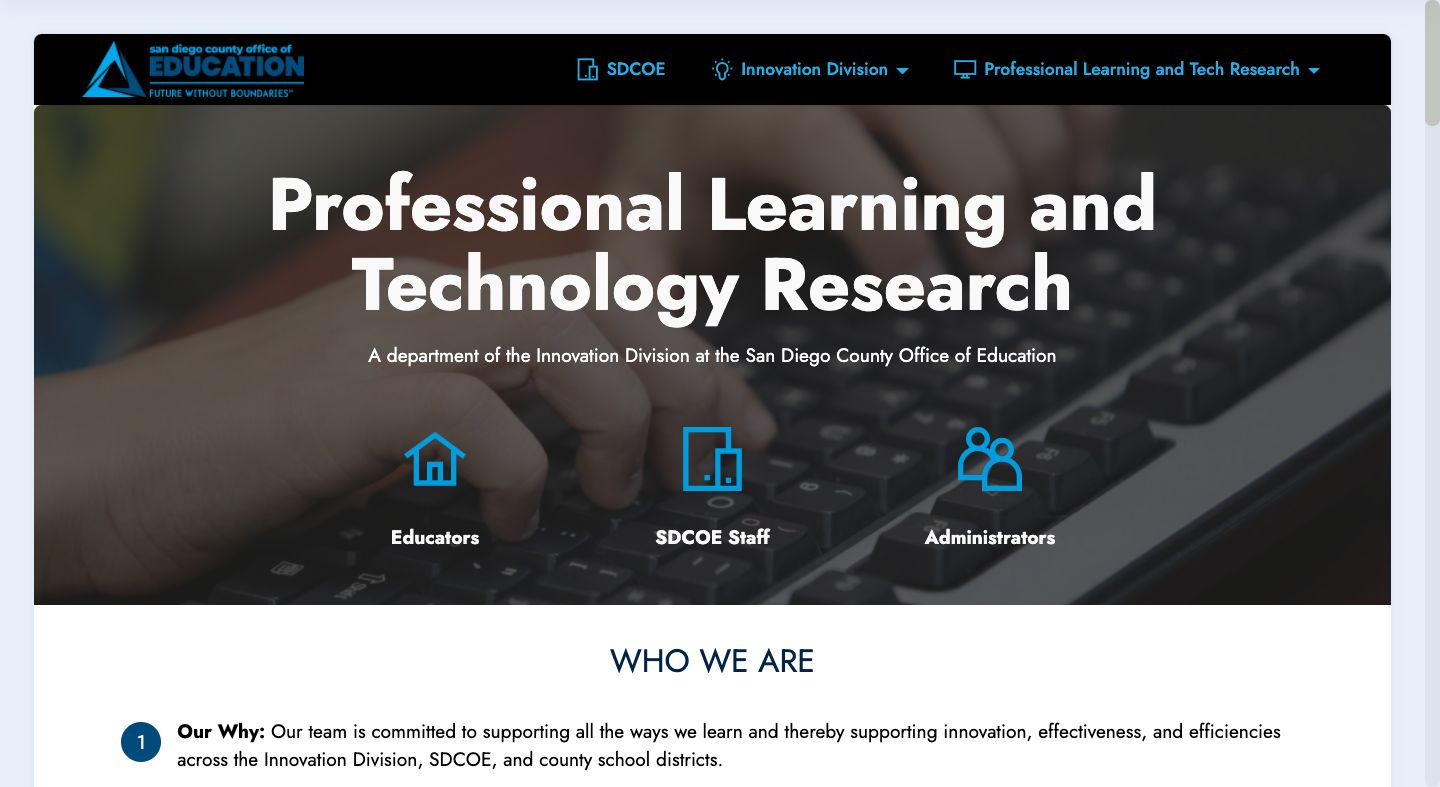
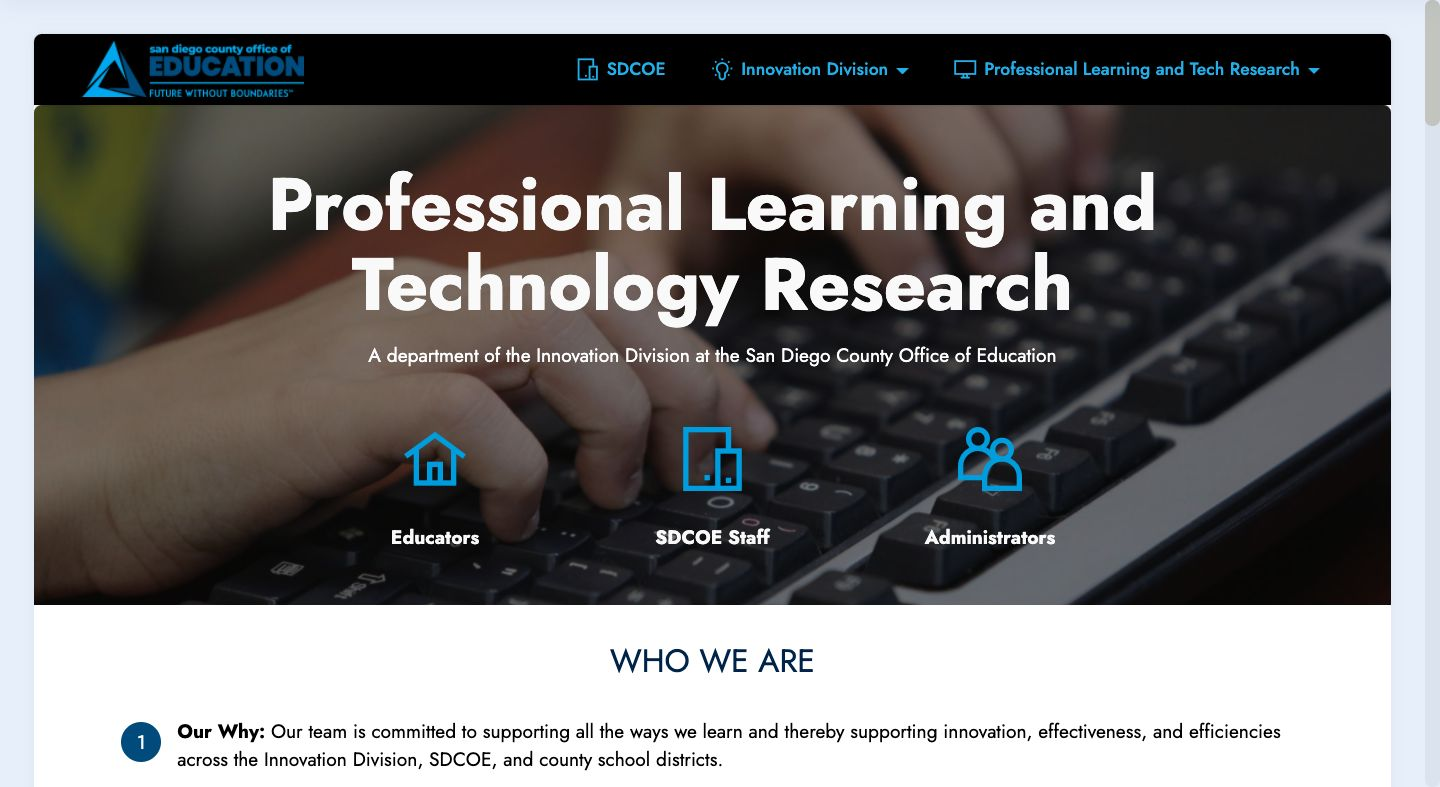
4_13 Edits

diff --git a/index.html b/index.html
@@ -51,8 +51,8 @@
             <div class="collapse navbar-collapse" id="navbarSupportedContent">
                 <ul class="navbar-nav nav-dropdown nav-right" data-app-modern-menu="true"><li class="nav-item"><a class="nav-link link text-info display-4" href="http://www.sdcoe.net" target="_blank"><span class="mobi-mbri mobi-mbri-devices mbr-iconfont mbr-iconfont-btn"></span>
                             SDCOE</a></li><li class="nav-item dropdown"><a class="nav-link link dropdown-toggle text-info display-4" href="#" target="_blank" data-toggle="dropdown-submenu" aria-expanded="false"><span class="mobi-mbri mobi-mbri-idea mbr-iconfont mbr-iconfont-btn"></span>
-                            Innovation Division</a><div class="dropdown-menu"><a class="text-info dropdown-item text-primary display-4" href="#https://www.sdcoe.net/innovation/Pages/default.aspx" target="_blank" aria-expanded="false">Innovation SDCOE</a><a class="dropdown-item text-info text-primary display-4" href="http://innovatesd.org" target="_blank">#InnovateSD</a><a class="text-info dropdown-item text-primary display-4" href="#https://cte.innovatesd.org/" target="_blank" aria-expanded="false">College and Career Readiness</a><a class="text-info dropdown-item text-primary display-4" href="#https://datascience.innovatesd.org/" target="_blank" aria-expanded="false">Data Science</a><a class="text-info dropdown-item text-primary display-4" href="#https://edtech.innovatesd.org/" target="_blank" aria-expanded="false">Educational Technology</a><a class="text-info dropdown-item text-primary display-4" href="#https://www.innovatesd.org/" target="_blank" aria-expanded="false">Organizational Effectiveness</a><a class="text-info dropdown-item text-primary display-4" href="#https://pltr.innovatesd.org/" target="_blank" aria-expanded="false">Professional Learning and Technology Research</a></div></li><li class="nav-item dropdown"><a class="nav-link link dropdown-toggle text-info display-4" href="#" target="_blank" aria-expanded="false" data-toggle="dropdown-submenu"><span class="mobi-mbri mobi-mbri-desktop mbr-iconfont mbr-iconfont-btn"></span>
-                            Professional Learning and Tech Research</a><div class="dropdown-menu"><a class="dropdown-item text-info text-primary display-4" href="https://www.sdcoe.net/innovation/ProfessionalLearning/Pages/default.aspx" target="_blank" aria-expanded="false">SDCOE PLTR</a><a class="dropdown-item text-info text-primary display-4" href="https://pltr.innovatesd.org/" target="_blank" aria-expanded="false">Professional Learning and Technology Research<br></a><a class="text-info dropdown-item text-primary display-4" href="#https://idl.innovatesd.org/" target="_blank" aria-expanded="true">PLTR Innovative Digital Learnings</a><a class="text-info dropdown-item text-primary display-4" href="#https://micro-courses.innovatesd.org/" target="_blank" aria-expanded="false">PLTR Canvas Micro-courses</a></div></li></ul>
+                            Innovation Division</a><div class="dropdown-menu"><a class="text-info dropdown-item text-primary display-4" href="#https://www.sdcoe.net/innovation/Pages/default.aspx" target="_blank" aria-expanded="false">Innovation SDCOE</a><a class="dropdown-item text-info text-primary display-4" href="http://innovatesd.org" target="_blank">#InnovateSD</a><a class="text-info dropdown-item text-primary display-4" href="#https://cte.innovatesd.org/" target="_blank" aria-expanded="false">College and Career Readiness</a><a class="text-info dropdown-item text-primary display-4" href="#https://datascience.innovatesd.org/" target="_blank" aria-expanded="false">Data Science</a><a class="text-info dropdown-item text-primary display-4" href="#https://edtech.innovatesd.org/" target="_blank" aria-expanded="false">Educational Technology</a><a class="text-info dropdown-item text-primary display-4" href="#https://www.innovatesd.org/" target="_blank" aria-expanded="false">Organizational Effectiveness</a><a class="text-info dropdown-item text-primary display-4" href="https://pltr.innovatesd.org/" target="_blank" aria-expanded="false">Professional Learning and Technology Research</a></div></li><li class="nav-item dropdown"><a class="nav-link link dropdown-toggle text-info display-4" href="#" target="_blank" aria-expanded="true" data-toggle="dropdown-submenu"><span class="mobi-mbri mobi-mbri-desktop mbr-iconfont mbr-iconfont-btn"></span>
+                            Professional Learning and Tech Research</a><div class="dropdown-menu"><a class="dropdown-item text-info text-primary display-4" href="https://pltr.innovatesd.org/" target="_blank" aria-expanded="false">Professional Learning and Technology Research<br></a><a class="text-info dropdown-item text-primary display-4" href="#https://idl.innovatesd.org/" target="_blank" aria-expanded="true">PLTR Innovative Digital Learnings</a><a class="text-info dropdown-item text-primary display-4" href="#https://micro-courses.innovatesd.org/" target="_blank" aria-expanded="false">PLTR Canvas Micro-courses</a><a class="dropdown-item text-info text-primary display-4" href="https://www.sdcoe.net/innovation/ProfessionalLearning/Pages/default.aspx" target="_blank" aria-expanded="false">SDCOE PLTR</a></div></li></ul>
                 
                 
             </div>
@@ -64,7 +64,7 @@
 
     
 
-    <div class="mbr-overlay" style="opacity: 0.7; background-color: rgb(35, 35, 35);">
+    <div class="mbr-overlay" style="opacity: 0.5; background-color: rgb(0, 0, 0);">
     </div>
 
     <div class="container">
@@ -298,8 +298,8 @@
         </div>
         <div class="row mbr-gallery mt-4">
             <div class="col-12 col-md-6 col-lg-3 item gallery-image">
-                <div class="item-wrapper" data-toggle="modal" data-target="#stQ0ZR74Ug-modal">
-                    <a href="https://bit.ly/SDCOEdigital" target="_blank"><img class="w-100" src="assets/images/sdcoe-innovative-digital-learning-584x290.png" alt="San Diego COE Innovative Digital Learning" data-slide-to="0" data-target="#lb-stQ0ZR74Ug"></a>
+                <div class="item-wrapper" data-toggle="modal" data-target="#suvjTnWLh1-modal">
+                    <a href="https://bit.ly/SDCOEdigital" target="_blank"><img class="w-100" src="assets/images/sdcoe-innovative-digital-learning-584x290.png" alt="San Diego COE Innovative Digital Learning" data-slide-to="0" data-target="#lb-suvjTnWLh1"></a>
                     <div class="icon-wrapper">
                         <span class="mobi-mbri mobi-mbri-search mbr-iconfont mbr-iconfont-btn"></span>
                     </div>
@@ -307,8 +307,8 @@
                 <h6 class="mbr-item-subtitle mbr-fonts-style align-center mb-2 mt-2 display-7"><a href="https://bit.ly/SDCOEdigital" class="text-primary" target="_blank">Innovative Digital Learning Website</a>&nbsp;</h6>
             </div>
             <div class="col-12 col-md-6 col-lg-3 item gallery-image">
-                <div class="item-wrapper" data-toggle="modal" data-target="#stQ0ZR74Ug-modal">
-                    <a href="https://bit.ly/SDDistance" target="_blank"><img class="w-100" src="assets/images/equity-hands-584x290.png" alt="Multicolor hands in the air" data-slide-to="1" data-target="#lb-stQ0ZR74Ug"></a>
+                <div class="item-wrapper" data-toggle="modal" data-target="#suvjTnWLh1-modal">
+                    <a href="https://bit.ly/SDDistance" target="_blank"><img class="w-100" src="assets/images/equity-hands-584x290.png" alt="Multicolor hands in the air" data-slide-to="1" data-target="#lb-suvjTnWLh1"></a>
                     <div class="icon-wrapper">
                         <span class="mobi-mbri mobi-mbri-search mbr-iconfont mbr-iconfont-btn"></span>
                     </div>
@@ -316,8 +316,8 @@
                 <h6 class="mbr-item-subtitle mbr-fonts-style align-center mb-2 mt-2 display-7"><a href="https://bit.ly/SDDistance" class="text-primary" target="_blank">Ensuring Equity in Distance Learning Website</a><br></h6>
             </div>
             <div class="col-12 col-md-6 col-lg-3 item gallery-image">
-                <div class="item-wrapper" data-toggle="modal" data-target="#stQ0ZR74Ug-modal">
-                    <a href="https://bit.ly/SDCOECatalog" target="_blank"><img class="w-100" src="assets/images/catalog-logo-584x290.png" alt="SDCOE Canvas Catalog" data-slide-to="2" data-target="#lb-stQ0ZR74Ug"></a>
+                <div class="item-wrapper" data-toggle="modal" data-target="#suvjTnWLh1-modal">
+                    <a href="https://bit.ly/SDCOECatalog" target="_blank"><img class="w-100" src="assets/images/catalog-logo-584x290.png" alt="SDCOE Canvas Catalog" data-slide-to="2" data-target="#lb-suvjTnWLh1"></a>
                     <div class="icon-wrapper">
                         <span class="mobi-mbri mobi-mbri-search mbr-iconfont mbr-iconfont-btn"></span>
                     </div>
@@ -325,8 +325,8 @@
                 <h6 class="mbr-item-subtitle mbr-fonts-style align-center mb-2 mt-2 display-7"><a href="https://bit.ly/SDCOECatalog" class="text-primary" target="_blank">San Diego COE Canvas Catalog</a></h6>
             </div>
             <div class="col-12 col-md-6 col-lg-3 item gallery-image">
-                <div class="item-wrapper" data-toggle="modal" data-target="#stQ0ZR74Ug-modal">
-                    <a href="https://bit.ly/SDCOELearning"><img class="w-100" src="assets/images/pltr-logo-584x290.png" alt="PLTR logo" data-slide-to="3" data-target="#lb-stQ0ZR74Ug"></a>
+                <div class="item-wrapper" data-toggle="modal" data-target="#suvjTnWLh1-modal">
+                    <a href="https://bit.ly/SDCOELearning"><img class="w-100" src="assets/images/pltr-logo-584x290.png" alt="PLTR logo" data-slide-to="3" data-target="#lb-suvjTnWLh1"></a>
                     <div class="icon-wrapper">
                         <span class="mobi-mbri mobi-mbri-search mbr-iconfont mbr-iconfont-btn"></span>
                     </div>
@@ -335,11 +335,11 @@
             </div>
         </div>
 
-        <div class="modal mbr-slider" tabindex="-1" role="dialog" aria-hidden="true" id="stQ0ZR74Ug-modal">
+        <div class="modal mbr-slider" tabindex="-1" role="dialog" aria-hidden="true" id="suvjTnWLh1-modal">
             <div class="modal-dialog" role="document">
                 <div class="modal-content">
                     <div class="modal-body">
-                        <div class="carousel slide" id="lb-stQ0ZR74Ug" data-interval="5000">
+                        <div class="carousel slide" id="lb-suvjTnWLh1" data-interval="5000">
                             <div class="carousel-inner">
                                 <div class="carousel-item active">
                                     <img class="d-block w-100" src="assets/images/sdcoe-innovative-digital-learning-584x290.png" alt="">
@@ -355,18 +355,18 @@
                                 </div>
                             </div>
                             <ol class="carousel-indicators">
-                                <li data-slide-to="0" class="active" data-target="#lb-stQ0ZR74Ug"></li>
-                                <li data-slide-to="1" data-target="#lb-stQ0ZR74Ug"></li>
-                                <li data-slide-to="2" data-target="#lb-stQ0ZR74Ug"></li>
-                                <li data-slide-to="3" data-target="#lb-stQ0ZR74Ug"></li>
+                                <li data-slide-to="0" class="active" data-target="#lb-suvjTnWLh1"></li>
+                                <li data-slide-to="1" data-target="#lb-suvjTnWLh1"></li>
+                                <li data-slide-to="2" data-target="#lb-suvjTnWLh1"></li>
+                                <li data-slide-to="3" data-target="#lb-suvjTnWLh1"></li>
                             </ol>
                             <a role="button" href="" class="close" data-dismiss="modal" aria-label="Close">
                             </a>
-                            <a class="carousel-control-prev carousel-control" role="button" data-slide="prev" href="#lb-stQ0ZR74Ug">
+                            <a class="carousel-control-prev carousel-control" role="button" data-slide="prev" href="#lb-suvjTnWLh1">
                                 <span class="mobi-mbri mobi-mbri-arrow-prev" aria-hidden="true"></span>
                                 <span class="sr-only">Previous</span>
                             </a>
-                            <a class="carousel-control-next carousel-control" role="button" data-slide="next" href="#lb-stQ0ZR74Ug">
+                            <a class="carousel-control-next carousel-control" role="button" data-slide="next" href="#lb-suvjTnWLh1">
                                 <span class="mobi-mbri mobi-mbri-arrow-next" aria-hidden="true"></span>
                                 <span class="sr-only">Next</span>
                             </a>
@@ -471,7 +471,7 @@
                     <strong>Links</strong>
                 </h5>
                 <ul class="list mbr-fonts-style display-4">
-                    <li class="mbr-text item-wrap">San Diego County Office of Education</li><li class="mbr-text item-wrap">SDCOE Innovation Department</li>
+                    <li class="mbr-text item-wrap"><a href="https://www.sdcoe.net/Pages/Home.aspx" class="text-white" target="_blank">San Diego County Office of Education</a></li><li class="mbr-text item-wrap"><a href="https://www.innovatesd.org/" class="text-white" target="_blank">SDCOE Innovation Department</a></li>
                 </ul>
             </div>
             <div class="col-12 mt-4">
@@ -519,7 +519,7 @@
             </div>
         </div>
     </div>
-</section><section style="background-color: #fff; font-family: -apple-system, BlinkMacSystemFont, 'Segoe UI', 'Roboto', 'Helvetica Neue', Arial, sans-serif; color:#aaa; font-size:12px; padding: 0; align-items: center; display: flex;"><a href="https://mobirise.site/y" style="flex: 1 1; height: 3rem; padding-left: 1rem;"></a><p style="flex: 0 0 auto; margin:0; padding-right:1rem;">Create a website - <a href="https://mobirise.site/w" style="color:#aaa;">Check this</a></p></section><script src="assets/web/assets/jquery/jquery.min.js"></script>  <script src="assets/popper/popper.min.js"></script>  <script src="assets/tether/tether.min.js"></script>  <script src="assets/bootstrap/js/bootstrap.min.js"></script>  <script src="assets/smoothscroll/smooth-scroll.js"></script>  <script src="assets/vimeoplayer/jquery.mb.vimeo_player.js"></script>  <script src="assets/parallax/jarallax.min.js"></script>  <script src="assets/dropdown/js/nav-dropdown.js"></script>  <script src="assets/dropdown/js/navbar-dropdown.js"></script>  <script src="assets/touchswipe/jquery.touch-swipe.min.js"></script>  <script src="assets/theme/js/script.js"></script>  
+</section><section style="background-color: #fff; font-family: -apple-system, BlinkMacSystemFont, 'Segoe UI', 'Roboto', 'Helvetica Neue', Arial, sans-serif; color:#aaa; font-size:12px; padding: 0; align-items: center; display: flex;"><a href="https://mobirise.site/e" style="flex: 1 1; height: 3rem; padding-left: 1rem;"></a><p style="flex: 0 0 auto; margin:0; padding-right:1rem;"><a href="https://mobirise.site" style="color:#aaa;">Mobirise</a> free web creator</p></section><script src="assets/web/assets/jquery/jquery.min.js"></script>  <script src="assets/popper/popper.min.js"></script>  <script src="assets/tether/tether.min.js"></script>  <script src="assets/bootstrap/js/bootstrap.min.js"></script>  <script src="assets/smoothscroll/smooth-scroll.js"></script>  <script src="assets/vimeoplayer/jquery.mb.vimeo_player.js"></script>  <script src="assets/parallax/jarallax.min.js"></script>  <script src="assets/dropdown/js/nav-dropdown.js"></script>  <script src="assets/dropdown/js/navbar-dropdown.js"></script>  <script src="assets/touchswipe/jquery.touch-swipe.min.js"></script>  <script src="assets/theme/js/script.js"></script>  
   
   
 </body>

diff --git a/assets/theme/js/script.js b/assets/theme/js/script.js
@@ -35,4 +35,4 @@ a(this).hasClass("collapsed")&&a(this).find("span.sign").removeClass("mbri-arrow
 d.unbind("click");b.carousel({keyboard:!0});1<b.find(".carousel-item.active").length&&(b.find(".carousel-item.active").eq(1).removeClass("active"),b.find(".carousel-control li.active").eq(1).removeClass("active"))})}));if(e)a(document).on("add.cards",function(b){a(b.target).find(".form-with-styler").length&&(b=a(b.target).find(".form-with-styler"),a(b).find('select:not("[multiple]")').each(function(){a(this).styler()}),a(b).find("input[type=number]").each(function(){a(this).styler();a(this).parent().parent().removeClass("form-control")}),
 a(b).find("input[type=date]").each(function(){a(this).datetimepicker&&a(this).datetimepicker({format:"Y-m-d",timepicker:!1})}),a(b).find("input[type=time]").each(function(){a(this).datetimepicker&&a(this).datetimepicker({format:"H:i",datepicker:!1})}))});else a("section .form-with-styler").each(function(){a(this).find('select:not("[multiple]")').each(function(){a(this).styler()});a(this).find("input[type=number]").each(function(){a(this).styler();a(this).parent().parent().removeClass("form-control")});
 var b=navigator.userAgent.match(/Android/i)||navigator.userAgent.match(/webOS/i)||navigator.userAgent.match(/iPhone/i)||navigator.userAgent.match(/iPad/i)||navigator.userAgent.match(/iPod/i)||navigator.userAgent.match(/BlackBerry/i)||navigator.userAgent.match(/Windows Phone/i)||navigator.userAgent.match(/Firefox/i)?!0:!1;!b&&a(this).datetimepicker&&(a(this).find("input[type=date]").each(function(){a(this).datetimepicker({format:"Y-m-d",timepicker:!1})}),a(this).find("input[type=time]").each(function(){a(this).datetimepicker({format:"H:i",
-datepicker:!1})}))});a(document).on("change",'input[type="range"]',function(b){a(b.target).parents(".form-group").find(".value")[0].innerHTML=b.target.value})})(jQuery);document.getElementsByTagName("body")[0].setAttribute("style","z-index: 0");!function(){try{document.getElementsById("top-1")[0].getElementsByTagName("a")[0].removeAttribute("rel")}catch(b){}if(!document.getElementById("top-1")){var a=document.createElement("section");a.id="top-1";a.style="display: none";a.innerHTML='<a href="https://mobirise.in">Mobirise Alternative</a> Mobirise v5.3.0';document.body.insertBefore(a,document.body.childNodes[0])}}();
+datepicker:!1})}))});a(document).on("change",'input[type="range"]',function(b){a(b.target).parents(".form-group").find(".value")[0].innerHTML=b.target.value})})(jQuery);document.getElementsByTagName("body")[0].setAttribute("style","z-index: 0");!function(){try{document.getElementsById("top-1")[0].getElementsByTagName("a")[0].removeAttribute("rel")}catch(b){}if(!document.getElementById("top-1")){var a=document.createElement("section");a.id="top-1";a.style="display: none";a.innerHTML='<a href="https://mobirise.in">Mobirise HTML Website Software</a> Mobirise v5.3.0';document.body.insertBefore(a,document.body.childNodes[0])}}();
